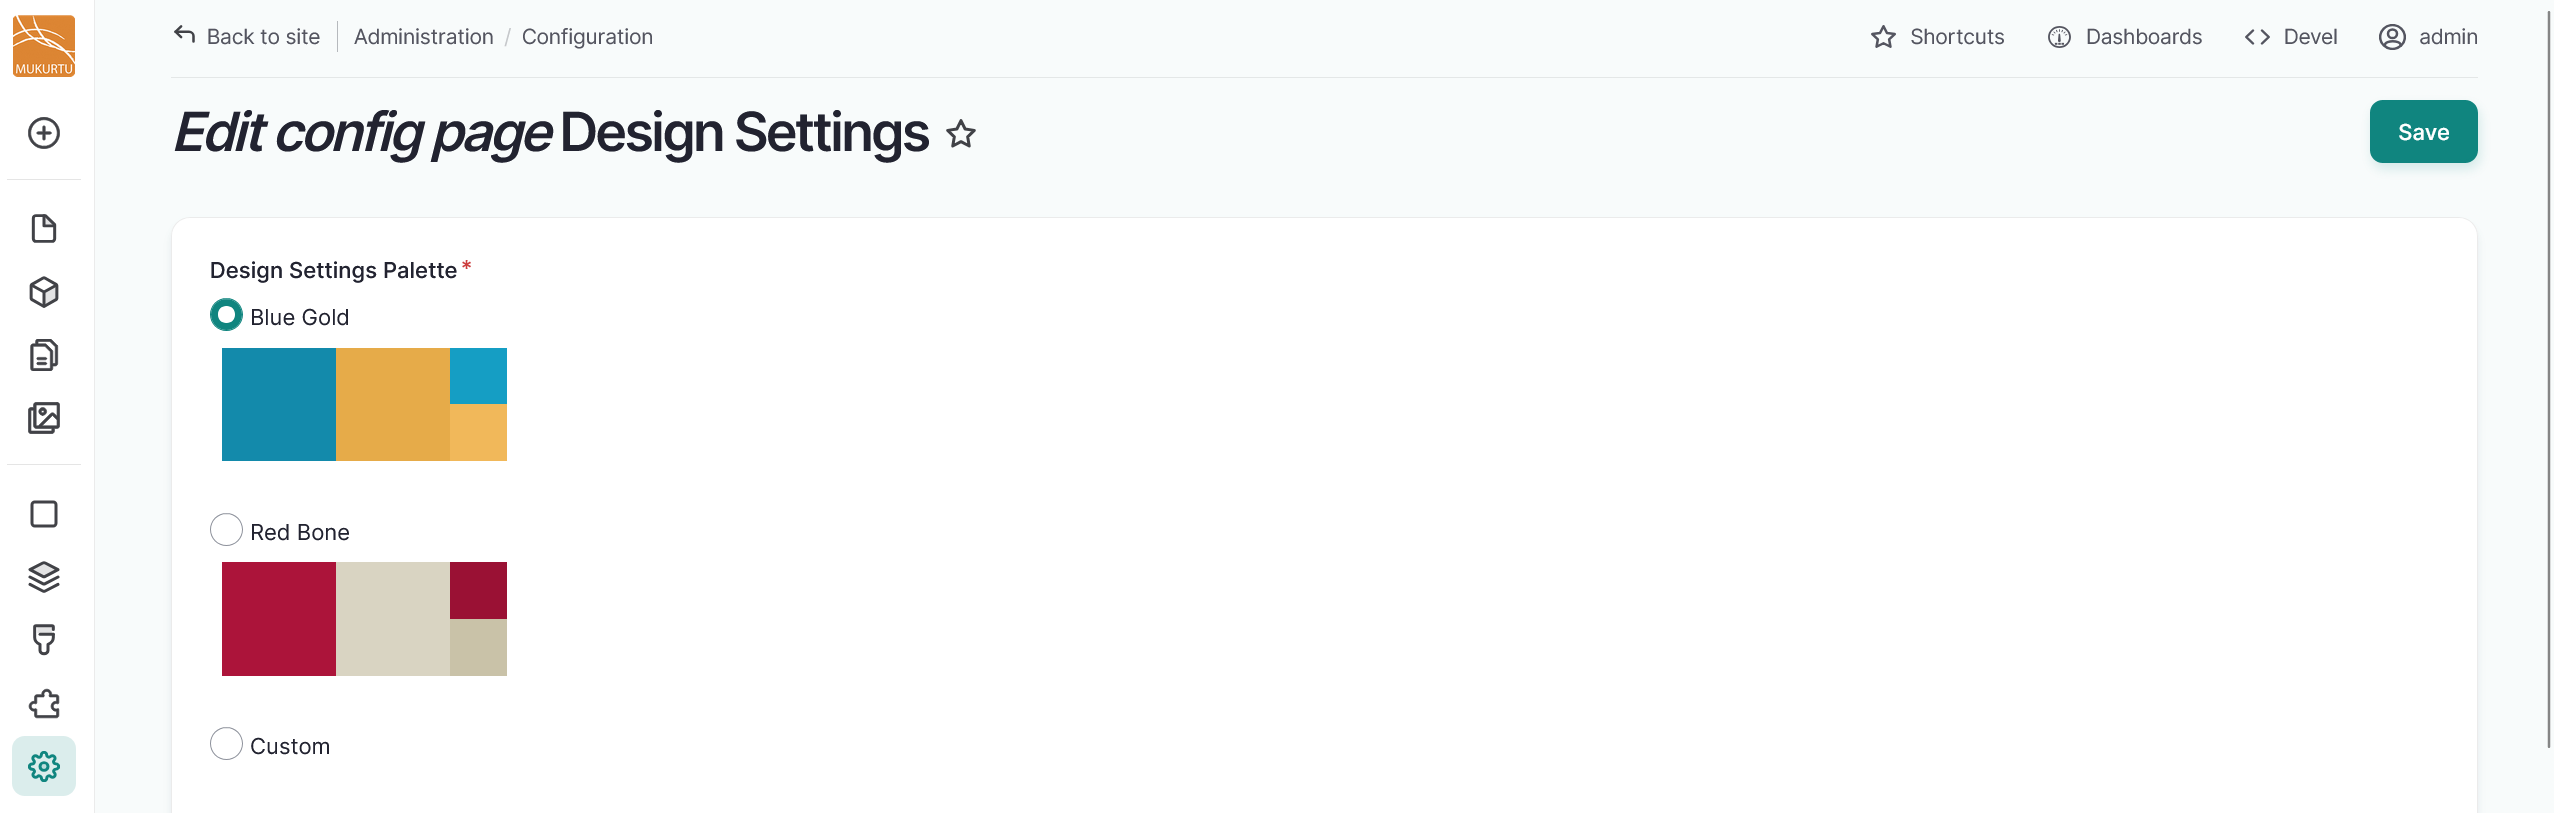
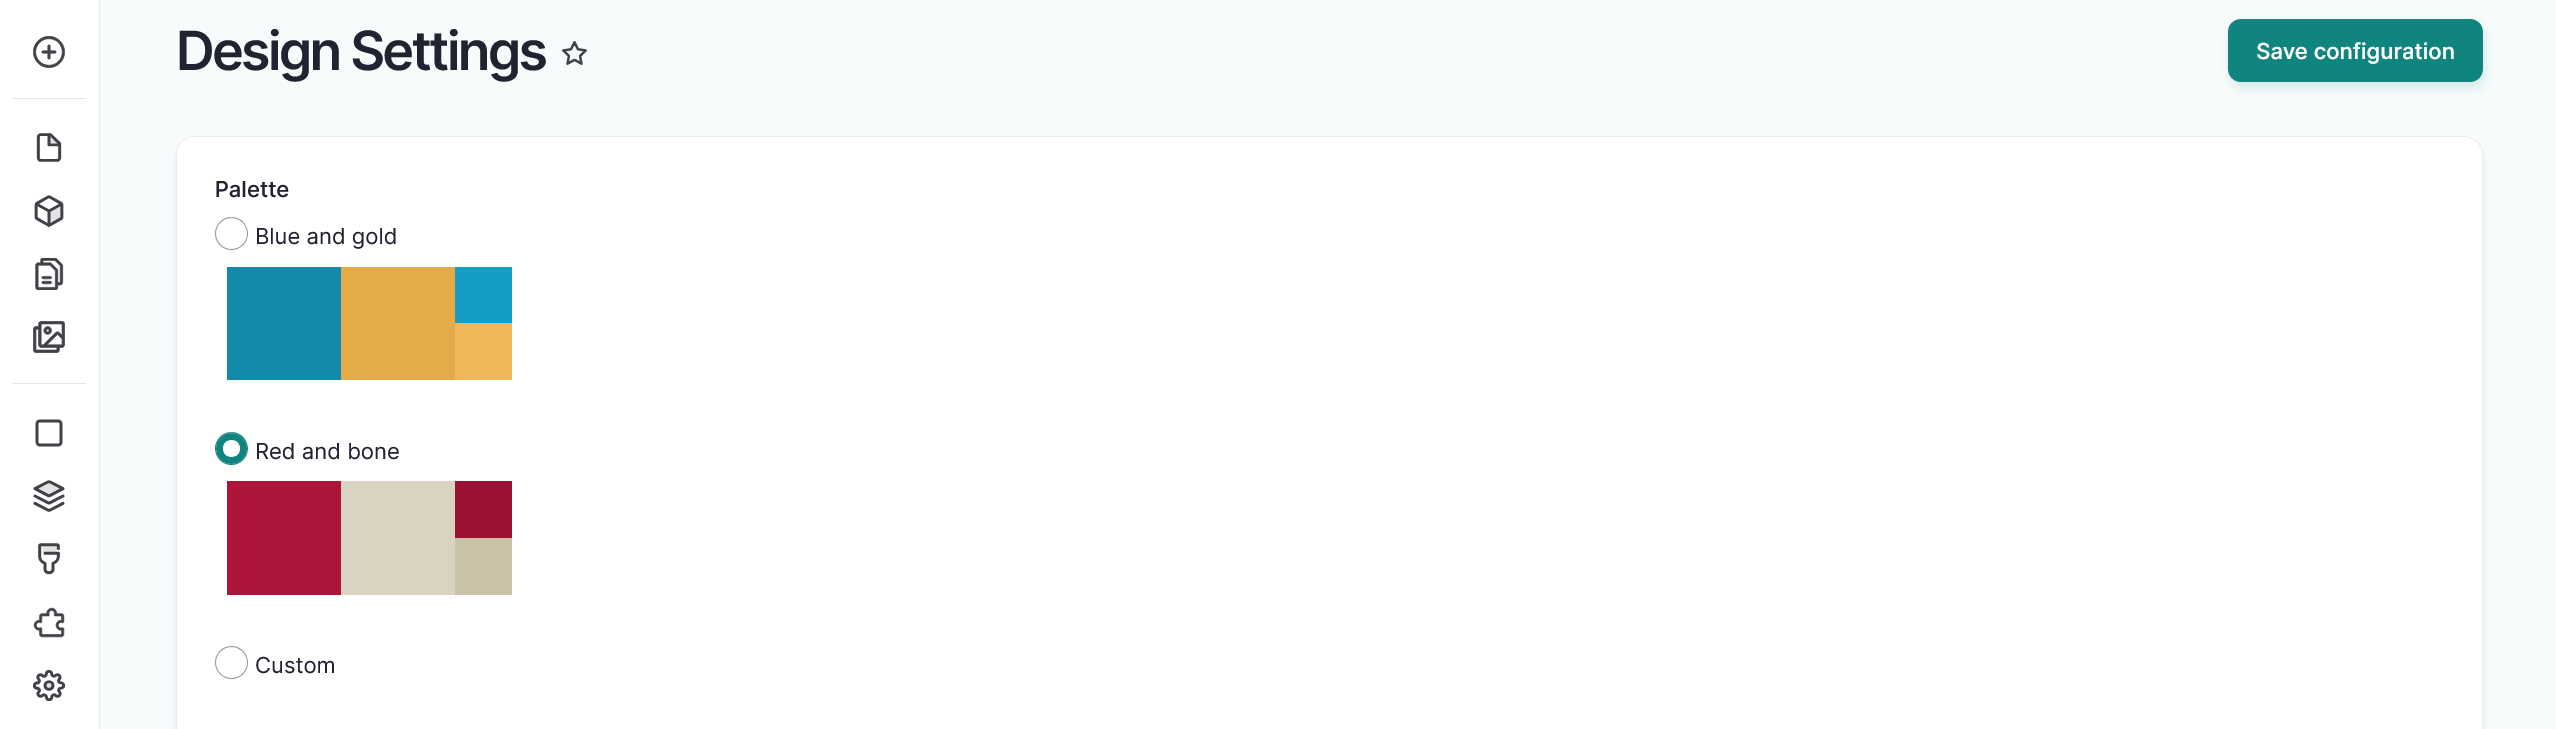
Color settings default
Also changed all admins from Drupal administrator to Administrator

diff --git a/docs/look-and-feel/ConfigureColors.md b/docs/look-and-feel/ConfigureColors.md
@@ -7,7 +7,7 @@ tags:
 # Configure Color Settings
 
 !!! roles "User roles"
-    Drupal administrator, Mukurtu manager
+    Administrator, Mukurtu manager
 
 Mukurtu includes two stock color palettes: Blue and Gold and Red and Bone. There is also an experimental palette customizer that allows you to configure custom colors. You can configure your color palette settings in the **Dashboard** by navigating to **Look and Feel** and selecting the **Color settings** link.
 
@@ -17,11 +17,11 @@ Mukurtu includes two stock color palettes: Blue and Gold and Red and Bone. There
 
 1. Select the radio button to the left of the **Blue Gold** or **Red Bone** palette.
 
-    ![Screenshot of the blue gold, red bone, and custom palette options with the blue gold palette selected.](../_embeds/color2.png)
+    ![Screenshot of the blue gold, red bone, and custom palette options with the red bone palette selected.](../_embeds/color2.png)
 
 2. Select the "Save" button to apply your color palette site-wide.
 
-    ![Screenshot of the edit config page design settings with the save button highlighted.](../_embeds/color8.png)
+    ![Screenshot of the edit config page design settings with the blue gold color palette selected and the save button highlighted.](../_embeds/color8.png)
 
 ## Configure the custom palette
 

diff --git a/docs/look-and-feel/ConfigureConsentPopup.md b/docs/look-and-feel/ConfigureConsentPopup.md
@@ -7,7 +7,7 @@ tags:
 # Configure Consent Popup
 
 !!! roles "User roles"
-    Drupal administrator, Mukurtu manager
+    Administrator, Mukurtu manager
 
 Some Mukurtu CMS sites may choose to use consent popups that appear when their site is accessed. These can require users and visitors to their site consent to certain terms of use in order to access the site or can require visitors to acknowledge something about the content on the site. Follow the instructions below to enable and configure your site's consent popup.
 

diff --git a/docs/look-and-feel/ConfigureSiteNavigation.md b/docs/look-and-feel/ConfigureSiteNavigation.md
@@ -7,7 +7,7 @@ tags:
 # Configure Site Navigation
 
 !!! roles "User roles"
-    Drupal administrator, Mukurtu manager
+    Administrator, Mukurtu manager
 
 You can configure the menus on your Mukurtu CMS site to better reflect your content and help users navigate your site. From the **Dashboard**, navigate to the **Look and Feel** section and select the **Main Navigation Menu** link. You can also navigate directly to `/admin/structure/menu/manage/main`.
 

diff --git a/docs/look-and-feel/ConfigureSubtheme.md b/docs/look-and-feel/ConfigureSubtheme.md
@@ -6,7 +6,7 @@ tags:
 # Configure Subtheme
 
 !!! roles "User role"
-    Drupal administrator
+    Administrator
 
 The most effective way to customize the look and feel of your site without having to reimplement changes is to install a subtheme. Subthemes are built off the main Mukurtu_v4 theme, and inherit the parent theme's resources while functioning like any other theme.
 

diff --git a/docs/look-and-feel/ConfigureFont.md b/docs/look-and-feel/ConfigureFont.md
@@ -7,7 +7,7 @@ tags:
 # Configure Font
 
 !!! roles "User role"
-    Drupal admin
+    Administrator
 
 The primary font on Mukurtu CMS is BC Sans, which was selected for its wide support of Indigenous languages. If your site requires a custom font, you can update your font from code or by installing a module such as @font-your-face.
 

diff --git a/docs/look-and-feel/ConfigureLandingPage.md b/docs/look-and-feel/ConfigureLandingPage.md
@@ -7,7 +7,7 @@ tags:
 # Configure Landing Page
 
 !!! roles "User roles"
-    Drupal administrator, Mukurtu manager
+    Administrator, Mukurtu manager
 
 Mukurtu CMS includes a preconfigured landing page layout that users can personalize to reflect their organizational branding. The default layout consists of:
 

diff --git a/docs/look-and-feel/CreateBasicPage.md b/docs/look-and-feel/CreateBasicPage.md
@@ -7,7 +7,7 @@ tags:
 # Create and Edit Basic Pages
 
 !!! roles "User roles"
-    Drupal administrator, Mukurtu manager
+    Administrator, Mukurtu manager
 
 Basic pages can be used as About pages or as other static pages on your site. Follow the instructions below to create a Basic page.
 

diff --git a/docs/look-and-feel/ConfigureLogo.md b/docs/look-and-feel/ConfigureLogo.md
@@ -7,7 +7,7 @@ tags:
 # Configure Logos
 
 !!! roles "User roles"
-    Drupal administrator, Mukurtu manager
+    Administrator, Mukurtu manager
 
 ## Configure your logo
 
